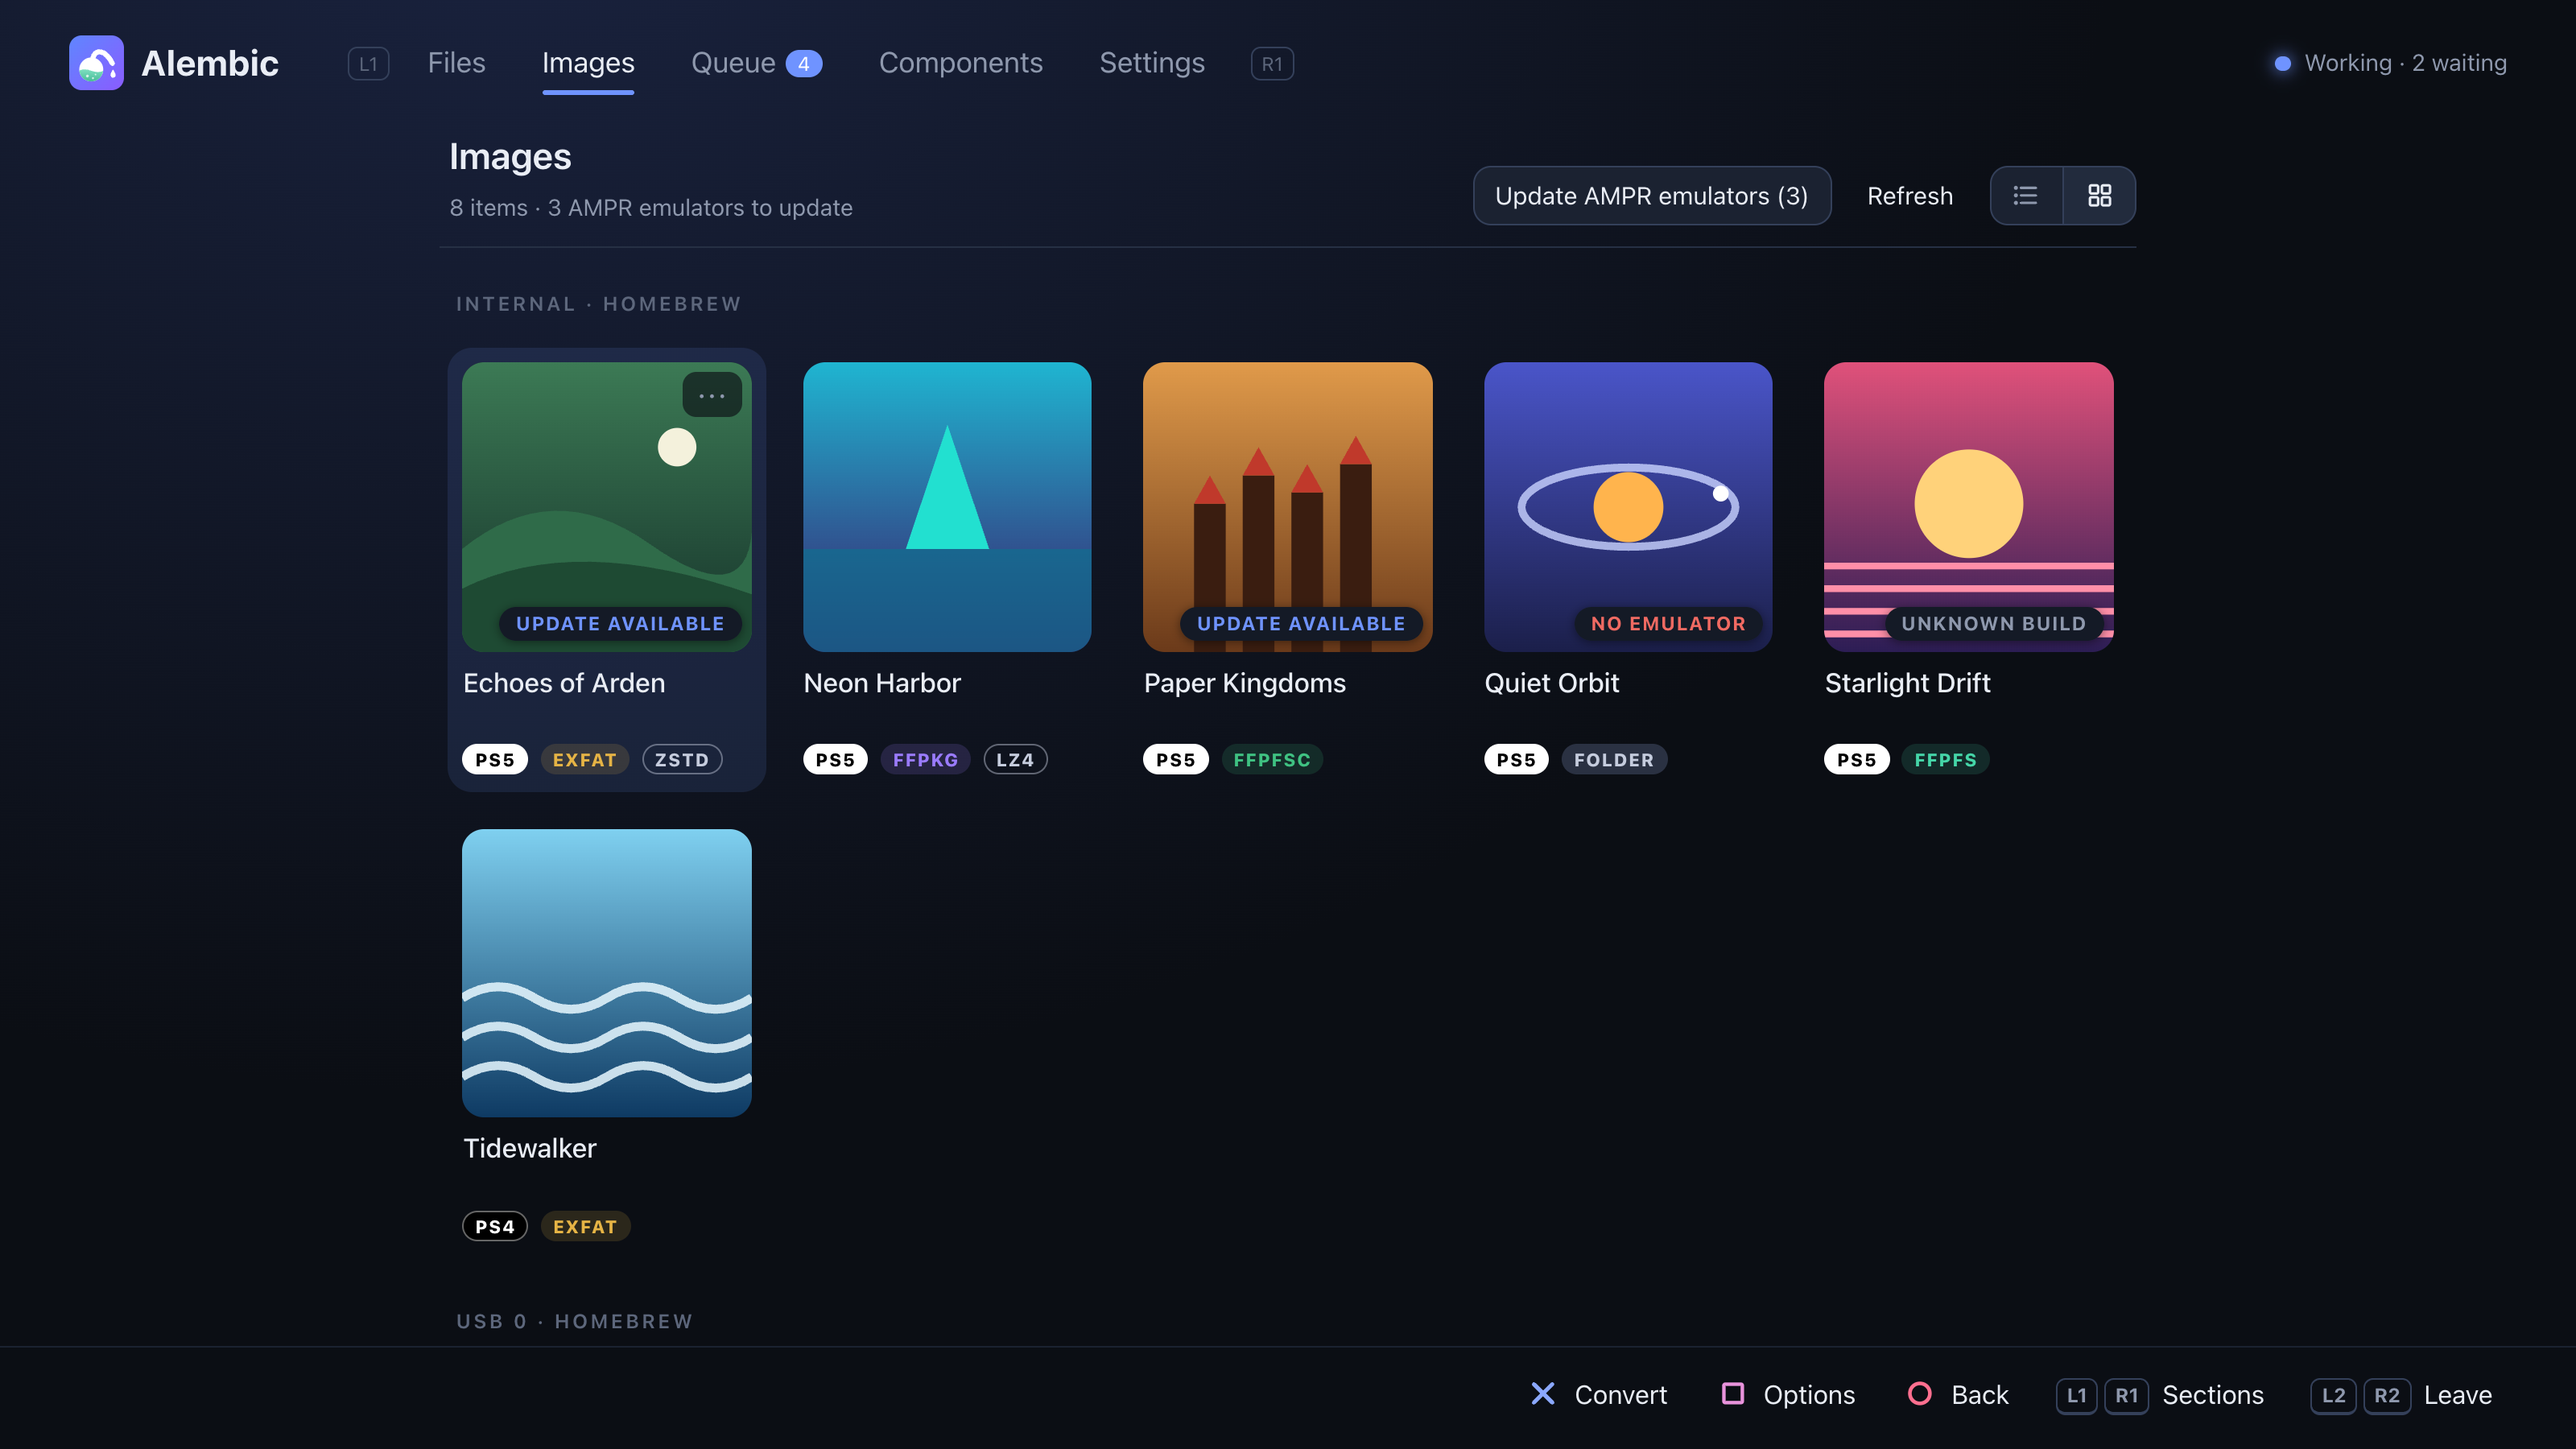
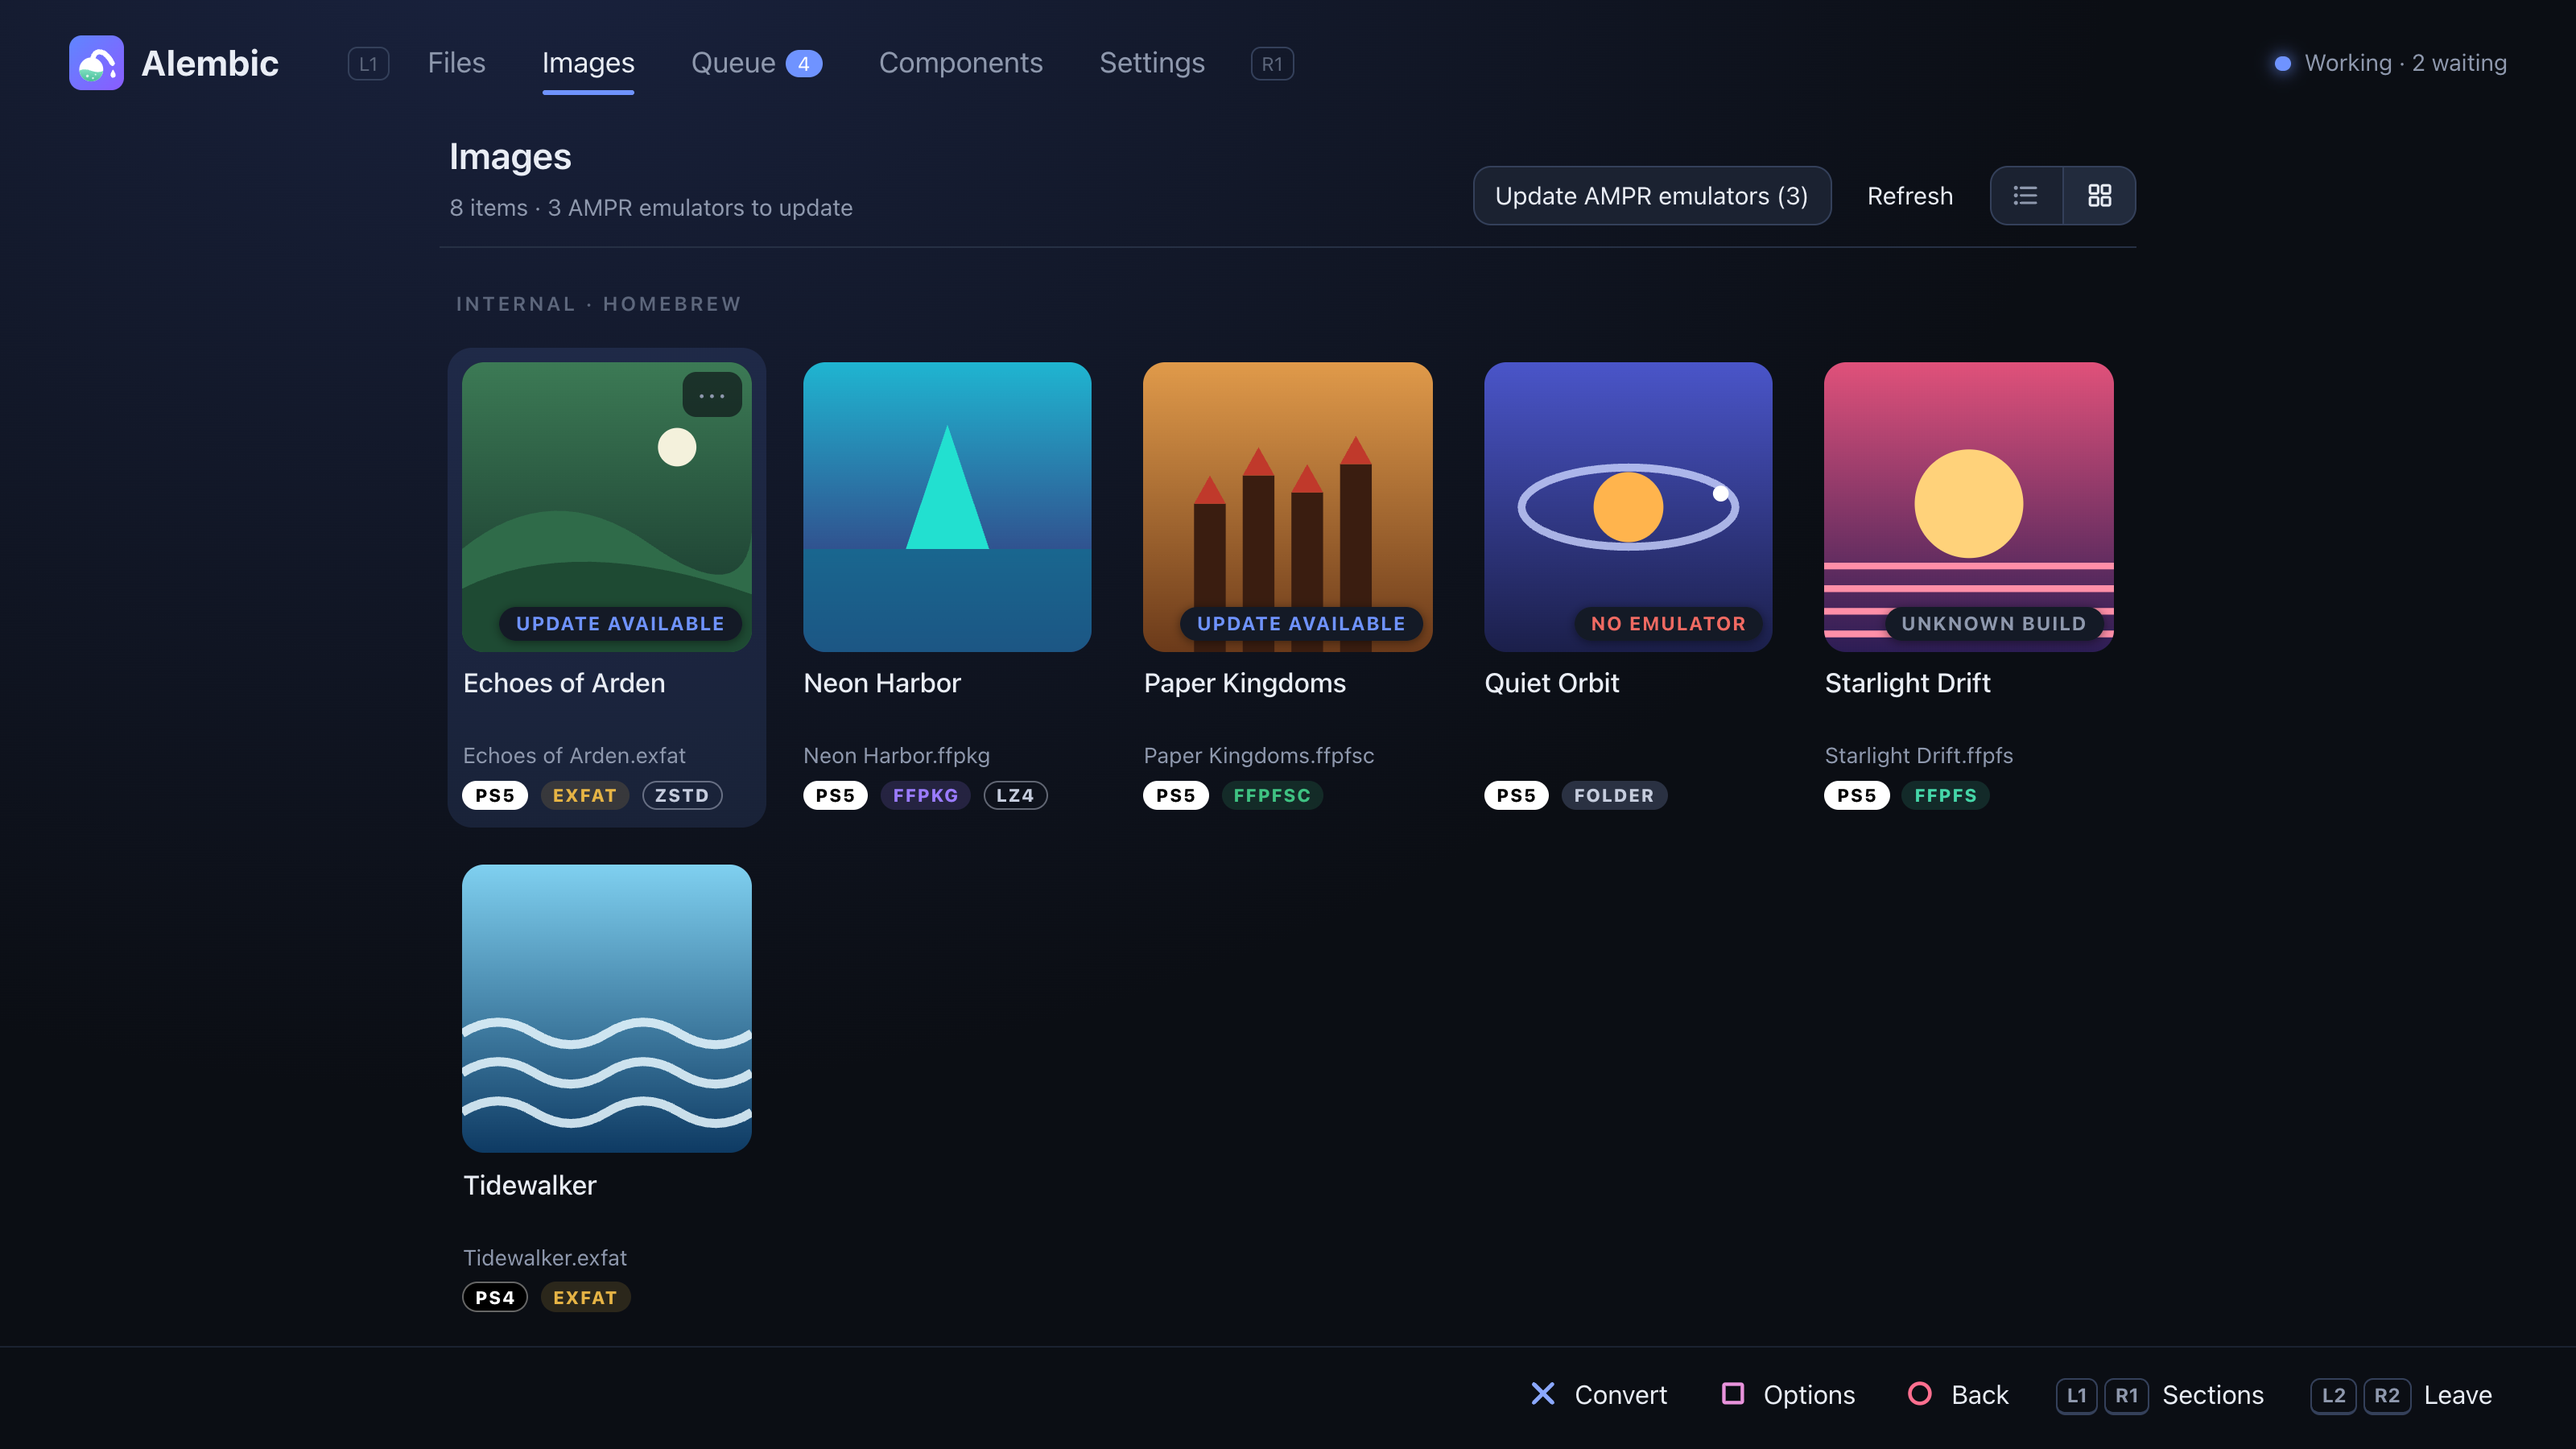
Images and Files grid: show the file's name under the game's title
Tiles showed only the game's title, and Images' list put the AMPR state in
place of the file's name, so what Rename changes could not be seen. Tiles get
a line with the file's name when it differs from the title, and Images' rows
keep the name before the AMPR state.

diff --git a/src/engine/web/src/pages/images/ImagesPage.tsx b/src/engine/web/src/pages/images/ImagesPage.tsx
@@ -73,7 +73,7 @@ function Row(props: { i: ImageItem }) {
           <span class={"fmt " + (i.game ? "folder" : i.kind)}>{i.game ? t("FOLDER") : KIND_LABEL[i.kind] || ""}</span>
           {m && (m.packs === "lz4" || m.packs === "zstd") ? <span class="fmt packs">{m.packs.toUpperCase()}</span> : null}
           {i.hidden ? <span class="fmt">{t("HIDDEN")}</span> : null}
-          {ampr || [m && m.title ? i.name : "", m && m.version ? "v" + m.version.replace(/^0+(?=\d)/, "") : "", m ? m.title_id : date(i.mtime)].filter(Boolean).join("  ·  ")}
+          {[m && m.title ? i.name : "", ampr || [m && m.version ? "v" + m.version.replace(/^0+(?=\d)/, "") : "", m ? m.title_id : date(i.mtime)].filter(Boolean).join("  ·  ")].filter(Boolean).join("  ·  ")}
         </div>
       </div>
       <div class="sz">{st ? <span class={"state " + st[0]}>{t(st[1])}</span> : i.kind !== "folder" ? bytes(i.size) : ""}</div>
@@ -91,7 +91,7 @@ function Cell(props: { i: ImageItem }) {
   const st = queued ? ["queued", "queued"] : i.ampr ? IMAGE_STATE[i.ampr.status] : undefined;
   const sel = selecting.value, ticked = sel && isSelected(i);
   return (
-    <Tile tileRef={ref} dataKey={"img:" + i.path} icon={<EntryIco entry={i} meta={m} />} title={m && m.title ? m.title : i.name}
+    <Tile tileRef={ref} dataKey={"img:" + i.path} icon={<EntryIco entry={i} meta={m} />} title={m && m.title ? m.title : i.name} name={i.name}
       tip={i.path + (amprText(i) ? "\n" + amprText(i) : "")} dim={i.hidden} selecting={sel} ticked={ticked}
       badge={st ? <span class={"state " + st[0]}>{t(st[1])}</span> : null}
       onClick={() => openImage(i)} onFocus={() => { focusImage.value = i; }} onMore={() => openActions(i, i)}

diff --git a/src/engine/web/src/components/Tile.tsx b/src/engine/web/src/components/Tile.tsx
@@ -1,11 +1,12 @@
 // SPDX-License-Identifier: GPL-3.0-or-later
 // One entry of a grid (Files and Images in grid view): the game's icon, a
-// pill on it when something needs doing, the title, its pills.
+// pill on it when something needs doing, the title, the file's name (when
+// the title is the game's), its pills.
 import type { ComponentChildren } from "preact";
 import { t } from "../lib/i18n";
 
 export function Tile(props: {
-  dataKey: string; icon: ComponentChildren; title: string; tip?: string; pills: ComponentChildren; badge?: ComponentChildren;
+  dataKey: string; icon: ComponentChildren; title: string; name?: string; tip?: string; pills: ComponentChildren; badge?: ComponentChildren;
   selecting?: boolean; ticked?: boolean; dim?: boolean; tileRef?: any;
   onClick: () => void; onFocus?: () => void; onMore?: () => void;
 }) {
@@ -17,6 +18,7 @@ export function Tile(props: {
       {p.selecting ? <span class={"tick" + (p.ticked ? " on" : "")}>{p.ticked ? "✓" : ""}</span> : null}
       <div class="art">{p.icon}{p.badge ? <div class="tbadge">{p.badge}</div> : null}</div>
       <div class="t" title={p.tip || p.title}>{p.title}</div>
+      <div class="n">{p.name && p.name !== p.title ? p.name : "\u00a0"}</div>
       <div class="s">{p.pills}</div>
       {p.onMore ? <button class="more" tabIndex={-1} data-nonav title={t("Options")} onClick={(ev) => { ev.stopPropagation(); p.onMore!(); }}>⋯</button> : null}
     </div>

diff --git a/src/engine/web/src/styles/files.css b/src/engine/web/src/styles/files.css
@@ -61,6 +61,7 @@
 .tile .art .tbadge { position: absolute; right: .35rem; bottom: .35rem; left: .35rem; text-align: right; }
 .tile .art .tbadge .state { margin-left: 0; background: #141a26; box-shadow: 0 1px 6px rgba(0,0,0,.45); }
 .tile .t { font-size: .98rem; font-weight: 500; line-height: 1.3; height: 2.6em; overflow: hidden; display: -webkit-box; -webkit-line-clamp: 2; -webkit-box-orient: vertical; word-break: break-word; }
+.tile .n { font-size: .8rem; color: var(--muted); margin-top: .15rem; white-space: nowrap; overflow: hidden; text-overflow: ellipsis; }
 .tile .s { font-size: .78rem; color: var(--muted); margin-top: .3rem; white-space: nowrap; overflow: hidden; text-overflow: ellipsis; }
 .tile .tick { position: absolute; left: .2rem; top: .2rem; width: 1.5rem; height: 1.5rem; border-radius: 50%; border: 2px solid var(--muted); background: var(--bg); color: #fff; font-size: .9rem; font-weight: 700; line-height: 1.25rem; text-align: center; z-index: 1; }
 .tile .tick.on { background: var(--accent); border-color: var(--accent); }

diff --git a/src/engine/web/src/pages/files/FileList.tsx b/src/engine/web/src/pages/files/FileList.tsx
@@ -78,7 +78,7 @@ function Cell(props: { e: Entry }) {
   const m = useMeta(isConvertible(e) ? e : null, ref);
   const sel = selecting.value, ticked = sel && isSelected(e);
   return (
-    <Tile tileRef={ref} dataKey={e.path} icon={<EntryIco entry={e} meta={m} />} title={m && m.title ? m.title : e.name} tip={e.name}
+    <Tile tileRef={ref} dataKey={e.path} icon={<EntryIco entry={e} meta={m} />} title={m && m.title ? m.title : e.name} name={e.name} tip={e.name}
       selecting={sel} ticked={ticked} onClick={() => (sel ? toggleSelected(e) : openEntry(e))} onFocus={() => { focusEntry.value = e; }}
       onMore={() => openActions(e)}
       pills={[m ? <PlatformPill meta={m} /> : null,

diff --git a/app/src/app/tiles.cpp b/app/src/app/tiles.cpp
@@ -60,7 +60,7 @@ Grid grid_of(float x, float w) {
     g.cols = std::max(1, static_cast<int>(std::floor((w + g.gap) / (10.5f * R + g.gap))));
     g.w = (w - g.gap * static_cast<float>(g.cols - 1)) / static_cast<float>(g.cols);
     const float pad = 0.55f * R;
-    g.h = pad + (g.w - 2.0f * pad) + 0.55f * R + 0.98f * R * 1.3f * 2.0f + 0.3f * R + 1.2f * R + pad;
+    g.h = pad + (g.w - 2.0f * pad) + 0.55f * R + 0.98f * R * 1.3f * 2.0f + 0.15f * R + 0.8f * R * 1.4f + 0.3f * R + 1.2f * R + pad;
     return g;
 }
 
@@ -97,7 +97,11 @@ bool tile(Ui& ui, App& app, Id id, const Rect& r, const TileInfo& info) {
     const float ts = 0.98f * R;
     draw::paragraph(ui, Face::regular, m && !m->title.empty() ? m->title : e.name, art.x, y, art.w, ts, ts * 1.3f,
                     style::text.with_alpha(info.dim ? 0.6f : 1.0f), 2);
-    y += ts * 1.3f * 2.0f + 0.3f * R;
+    y += ts * 1.3f * 2.0f + 0.15f * R;
+    // The file's name, when the title is the game's (what Rename changes).
+    if (m && !m->title.empty() && m->title != e.name)
+        draw::text_fit(ui, Face::regular, e.name, art.x, draw::baseline(y + 0.8f * R * 0.7f, 0.8f * R), 0.8f * R, art.w, muted);
+    y += 0.8f * R * 1.4f + 0.3f * R;
     const float cy = y + 0.6f * R;
     float pw = m ? draw::platform_pill(ui, m->platform, art.x, cy) : 0.0f;
     if (pw) pw += 0.45f * R;
@@ -126,7 +130,7 @@ bool drive_tile(Ui& ui, Id id, const Rect& r, draw::Icon icon, const std::string
     float y = art.y + art.h + 0.55f * R;
     const float ts = 0.98f * R;
     draw::paragraph(ui, Face::regular, title, art.x, y, art.w, ts, ts * 1.3f, style::text, 2);
-    y += ts * 1.3f * 2.0f + 0.3f * R;
+    y += ts * 1.3f * 2.0f + 0.15f * R + 0.8f * R * 1.4f + 0.3f * R;
     if (used >= 0.0f) {
         draw::meter(ui, {art.x, y + 0.1f * R, art.w, 0.28f * R}, used, used > 0.9f);
         y += 0.65f * R;

diff --git a/app/src/app/images.cpp b/app/src/app/images.cpp
@@ -442,17 +442,20 @@ void ImagesPage::build(Ui& ui, App& app, const Rect& area) {
             if (m && (m->packs == "lz4" || m->packs == "zstd"))
                 pw += 0.45f * R + draw::fmt_pill(ui, "packs", m->packs == "zstd" ? "ZSTD" : "LZ4", text_x + pw + 0.45f * R, s_cy);
             if (i["hidden"].boolean()) pw += 0.45f * R + draw::fmt_pill(ui, "file", t("HIDDEN"), text_x + pw + 0.45f * R, s_cy);
-            std::string sub;
+            // The file's name first when the title is the game's (what Rename changes).
+            std::string sub = m && !m->title.empty() ? e.name : "";
             if (uses_apr(status)) {
+                if (!sub.empty()) sub += "  \xC2\xB7  ";
                 if (i["ampr"]["emulator"].is_object()) {
-                    sub = i["ampr"]["emulator"]["name"].str() + " \xC2\xB7 " +
+                    sub += i["ampr"]["emulator"]["name"].str() + " \xC2\xB7 " +
                           (i["ampr"]["where"].str() == "backport" ? t("in its backport") : t("in the game"));
                     if (status == "update" || status == "not_downloaded") sub += " \xE2\x86\x92 " + target_name(i);
                 } else {
-                    sub = status == "unknown" ? t("a libSceAmpr.sprx Alembic doesn't know") : t("no AMPR emulator");
+                    sub += status == "unknown" ? t("a libSceAmpr.sprx Alembic doesn't know") : t("no AMPR emulator");
                 }
             } else {
                 std::vector<std::string> bits;
+                sub.clear();
                 if (m && !m->title.empty()) bits.push_back(e.name);
                 if (m && !m->version.empty()) bits.push_back("v" + version_text(m->version));
                 if (m && !m->title_id.empty()) bits.push_back(m->title_id);
